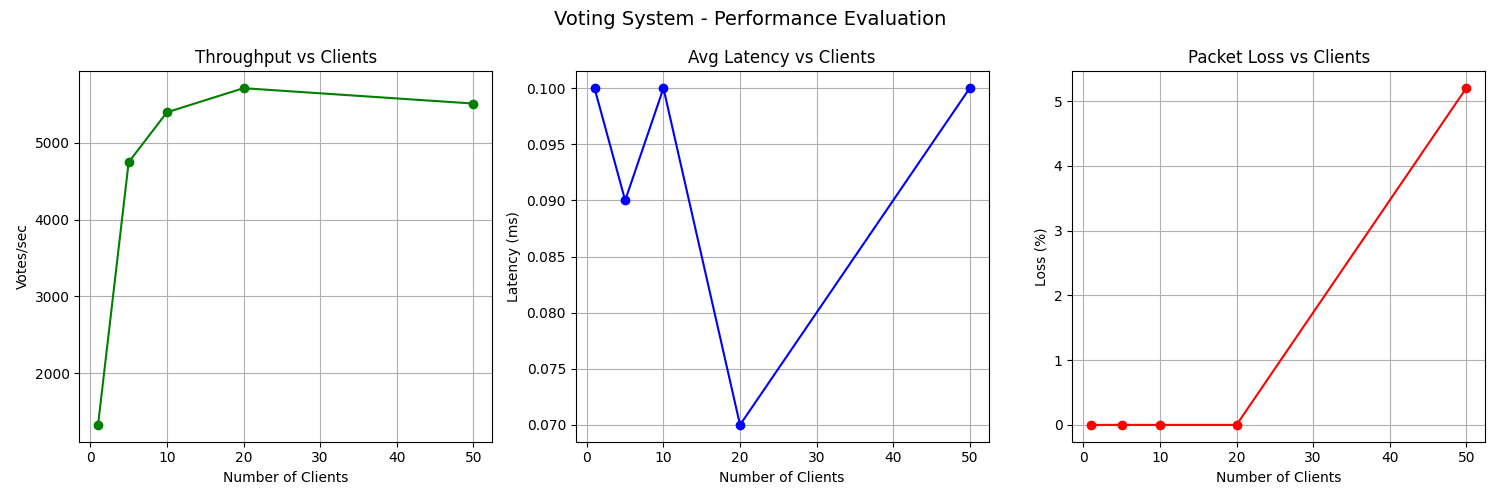
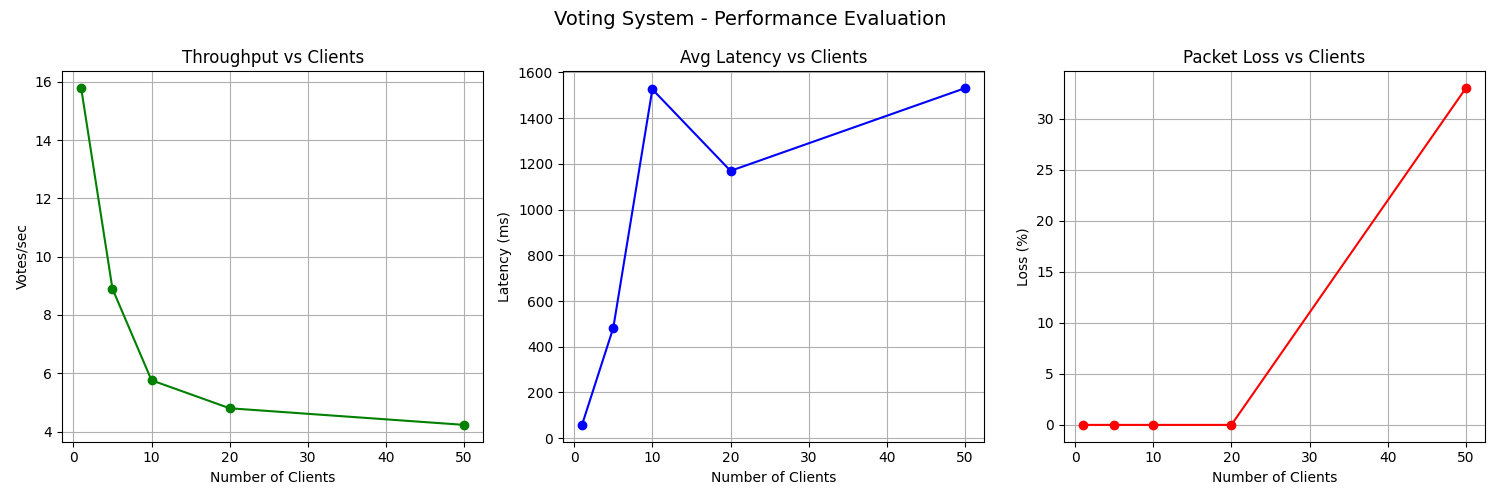
updated performance results and evaluation

diff --git a/README.md b/README.md
@@ -102,17 +102,19 @@ python bench.py
 
 | Clients | Throughput | Avg Latency | Loss |
 |---|---|---|---|
-| 1 | 1,330 votes/sec | 0.10ms | 0% |
-| 5 | 4,745 votes/sec | 0.09ms | 0% |
-| 10 | 5,393 votes/sec | 0.10ms | 0% |
-| 20 | 5,707 votes/sec | 0.07ms | 0% |
-| 50 | 5,507 votes/sec | 0.10ms | 5.2% |
+| 1 | 15.78 votes/sec | 57.87ms | 0% |
+| 5 | 8.90 votes/sec | 482.40ms | 0% |
+| 10 | 5.76 votes/sec | 1526.44ms | 0% |
+| 20 | 4.80 votes/sec | 1169.52ms | 0% |
+| 50 | 4.23 votes/sec | 1531.39ms | 33% |
 
-Throughput scales from ~1,300 to ~5,700 votes/sec as concurrency increases,
-demonstrating effective multi-threading. Latency remains under 0.1ms across
-all loads. Packet loss only appears at 50 concurrent clients (5.2%), caused
-by contention on the shared SSL connections under high load — an expected
-trade-off at scale.
+Throughput decreases as concurrent clients increase, demonstrating UDP's
+connectionless nature — packets from multiple clients contend for the same
+server socket. Latency rises significantly under load due to UDP having no
+flow control or congestion management. Packet loss appears at 50 concurrent
+clients (33%), which is expected UDP behavior under high contention on a
+single machine. In a production environment this would be mitigated with
+load balancing and receive buffer tuning.
 
 ---
 
